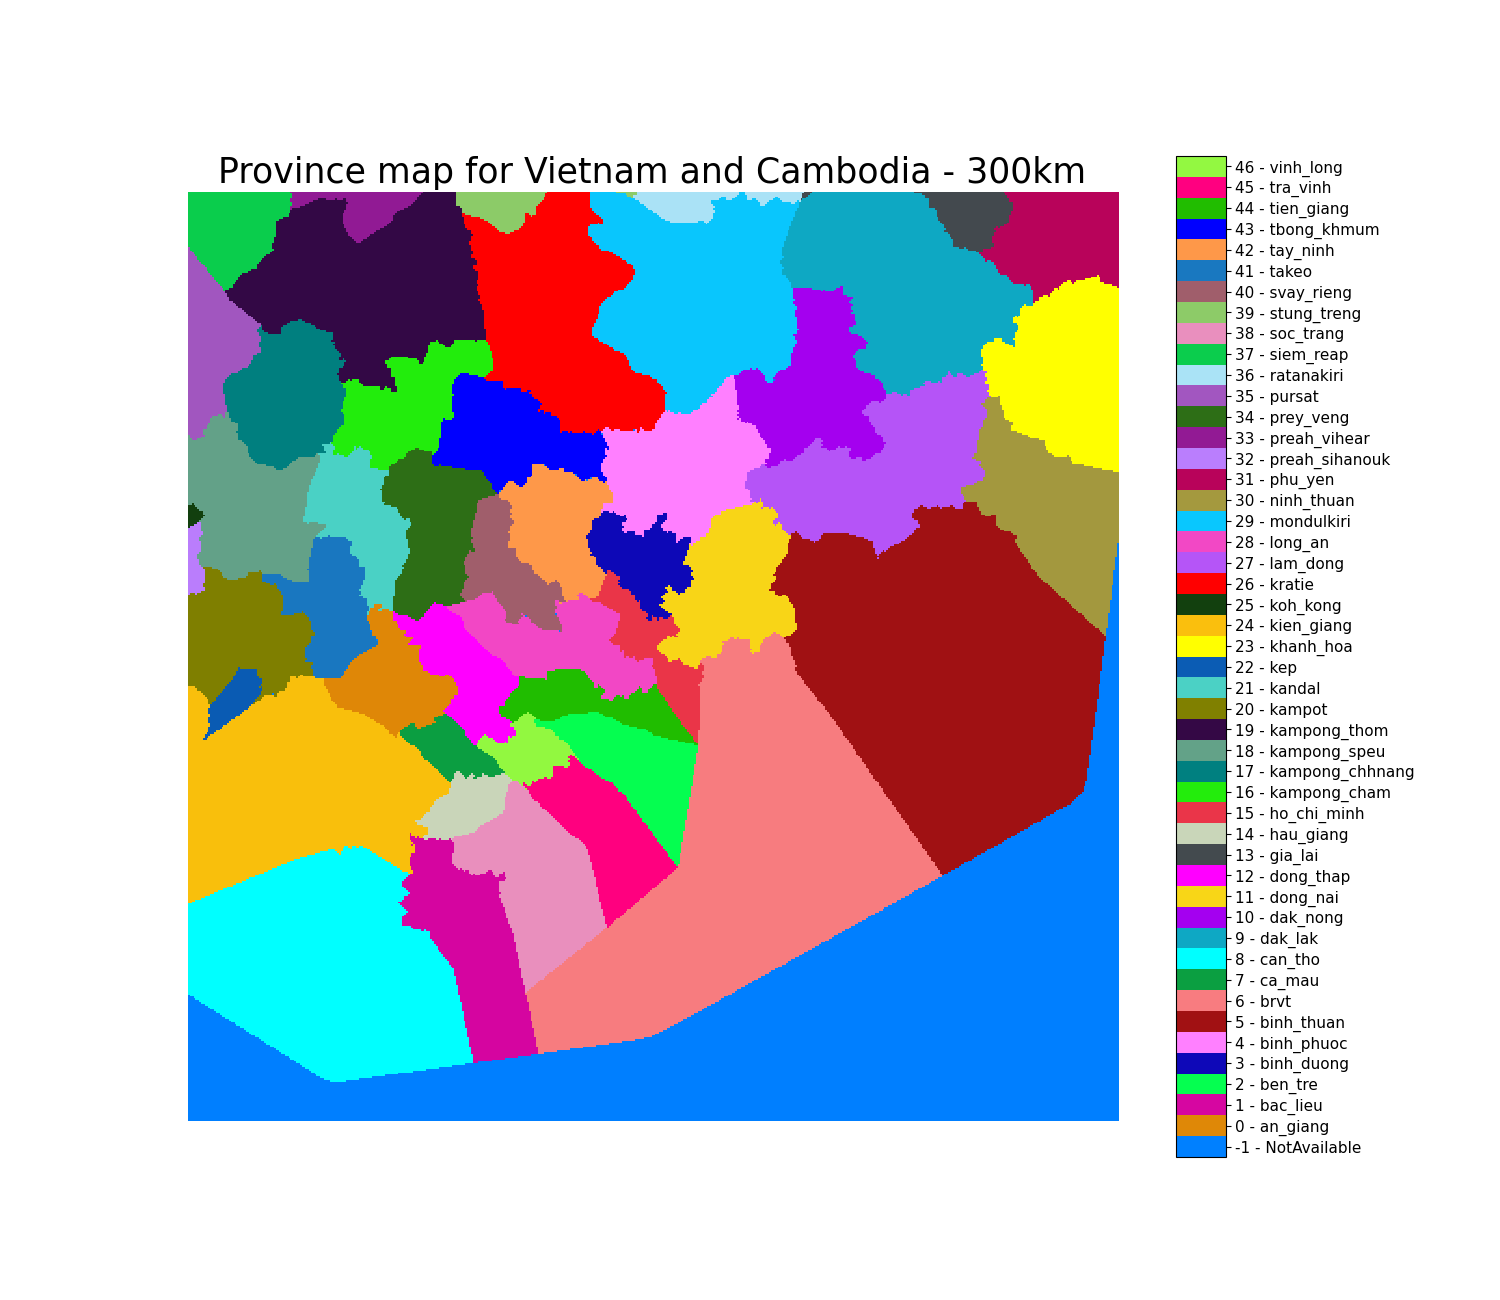
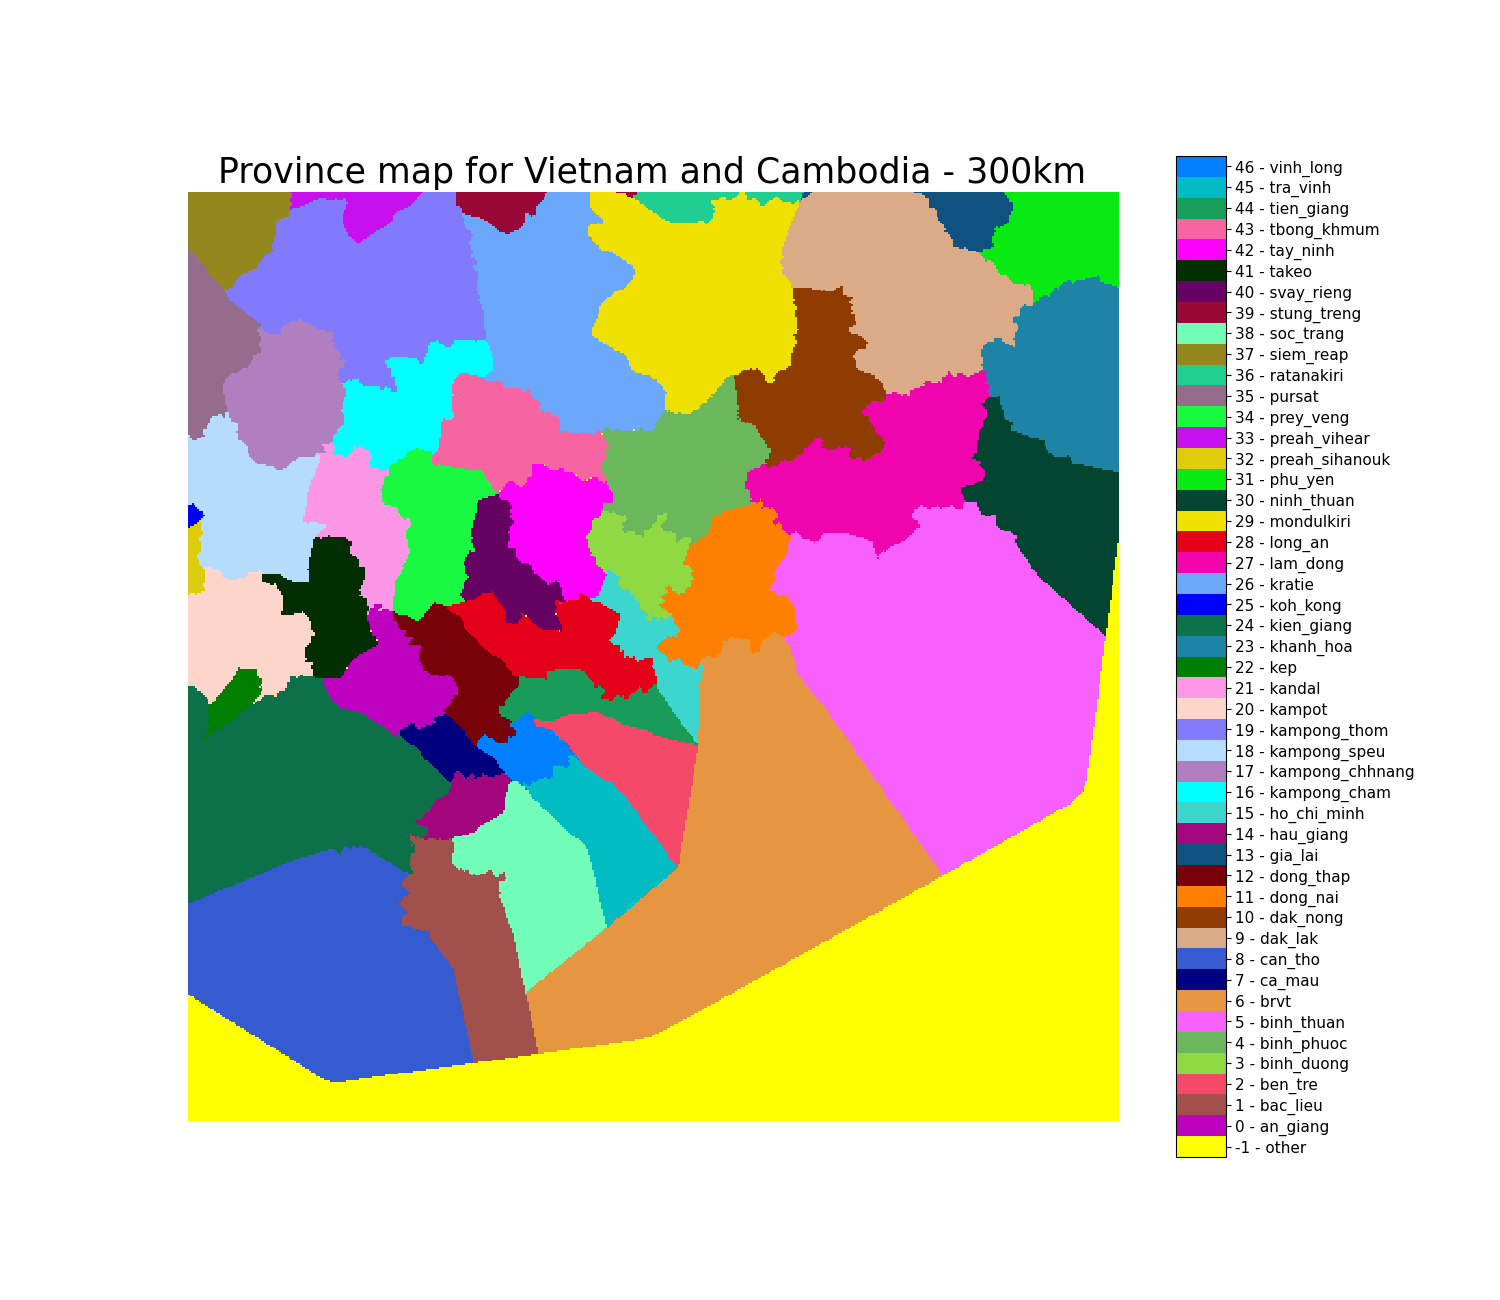
update

diff --git a/_find_province.py b/_find_province.py
@@ -1,4 +1,4 @@
-import os, json, time, pickle
+import os, json, time, pickle, random
 import multiprocessing as mp
 import warnings, logging
 warnings.filterwarnings('ignore')
@@ -54,13 +54,13 @@ def check_inside_province(coordinate_list):
                     province_list.insert(0, most_likely_province)
                 break
         else:
-            result += ["NotAvailable"]
+            result += ["other"]
     return result
 
 def map_str_to_num(data):
     provinces = [file[:-5] for file in os.listdir("coordinate/provinces") if file.endswith('.json')]
     provinces = {text: index for index, text in enumerate(provinces)}
-    provinces['NotAvailable'] = -1
+    provinces['other'] = -1
 
     print(provinces)
 
@@ -70,35 +70,39 @@ def map_str_to_num(data):
             
     return data
 
-def plot_map(save_name):
-    with open(f'coordinate/provinces_{save_name}.pkl', 'rb') as file:
-        data = pickle.load(file)
-        data = data.astype(int)
-        data = data[::-1]
-    
+def plot_map():
     province_list = list_all_provinces()
     name_list = [ele['name'] for ele in province_list]
 
     num_provinces = len(name_list)
     num_colors = num_provinces + 1
     colors = distinctipy.get_colors(num_colors, colorblind_type="Deuteranomaly")
+    random.shuffle(colors)
     cmap = ListedColormap(colors)
-
-    fig, ax = plt.subplots(figsize=(15, 13))
-    plt.imshow(data, cmap=cmap, interpolation='nearest')
-    plt.title(f'Province map for Vietnam and Cambodia - {save_name}', fontsize=25)
-    plt.axis('off')
     
-    # Make tick at the center of color
-    ticks = np.linspace(-1, num_provinces - 1, 2 * num_colors + 1)[1::2]
-    labels = ["-1 - NotAvailable"] + [f"{i} - {name_list[i]}" for i in range(num_provinces)]
-    cbar = plt.colorbar(ticks=ticks)
-    cbar.ax.set_yticklabels(labels, fontsize=11)
+    for save_name in ["120km", "300km"]:
+        with open(f'coordinate/provinces_{save_name}.pkl', 'rb') as file:
+            data = pickle.load(file)
+            data = data.astype(int)
+            data = data[::-1]
         
-    plt.savefig(f"coordinate/provinces_{save_name}.png")
+        fig, ax = plt.subplots(figsize=(15, 13))
+        plt.imshow(data, cmap=cmap, interpolation='nearest')
+        plt.title(f'Province map for Vietnam and Cambodia - {save_name}', fontsize=25)
+        plt.axis('off')
+        
+        # Make tick at the center of color
+        ticks = np.linspace(-1, num_provinces - 1, 2 * num_colors + 1)[1::2]
+        labels = ["-1 - other"] + [f"{i} - {name_list[i]}" for i in range(num_provinces)]
+        cbar = plt.colorbar(ticks=ticks)
+        cbar.ax.set_yticklabels(labels, fontsize=11)
+            
+        plt.savefig(f"coordinate/provinces_{save_name}.png")
+        
+        plt.close()
 
 if __name__ == '__main__':
-    radar_range = 300000 # 120000 | 300000
+    radar_range = 120000 # 120000 | 300000
     
     if radar_range == 120000:
         save_name = "120km"
@@ -132,7 +136,7 @@ if __name__ == '__main__':
     #     print(e)
     #     logging.error(e, exc_info=True)
             
-    plot_map(save_name)
+    plot_map()
     
 # {'an_giang':       0,  'bac_lieu':     1,  'ben_tre':         2,  'binh_duong':   3,  'binh_phuoc':     4, 
 #  'binh_thuan':     5,  'brvt':         6,  'can_tho':         7,  'ca_mau':       8,  'dak_lak':        9, 
@@ -144,7 +148,7 @@ if __name__ == '__main__':
 #  'pursat':         35, 'ratanakiri':   36, 'siem_reap':       37, 'soc_trang':    38, 'stung_treng':    39,
 #  'svay_rieng':     40, 'takeo':        41, 'tay_ninh':        42, 'tbong_khmum':  43, 'tien_giang':     44,
 #  'tra_vinh':       45, 'vinh_long':    46, 
-#  'NotAvailable':   -1}
+#  'other':   -1}
 
 
 
